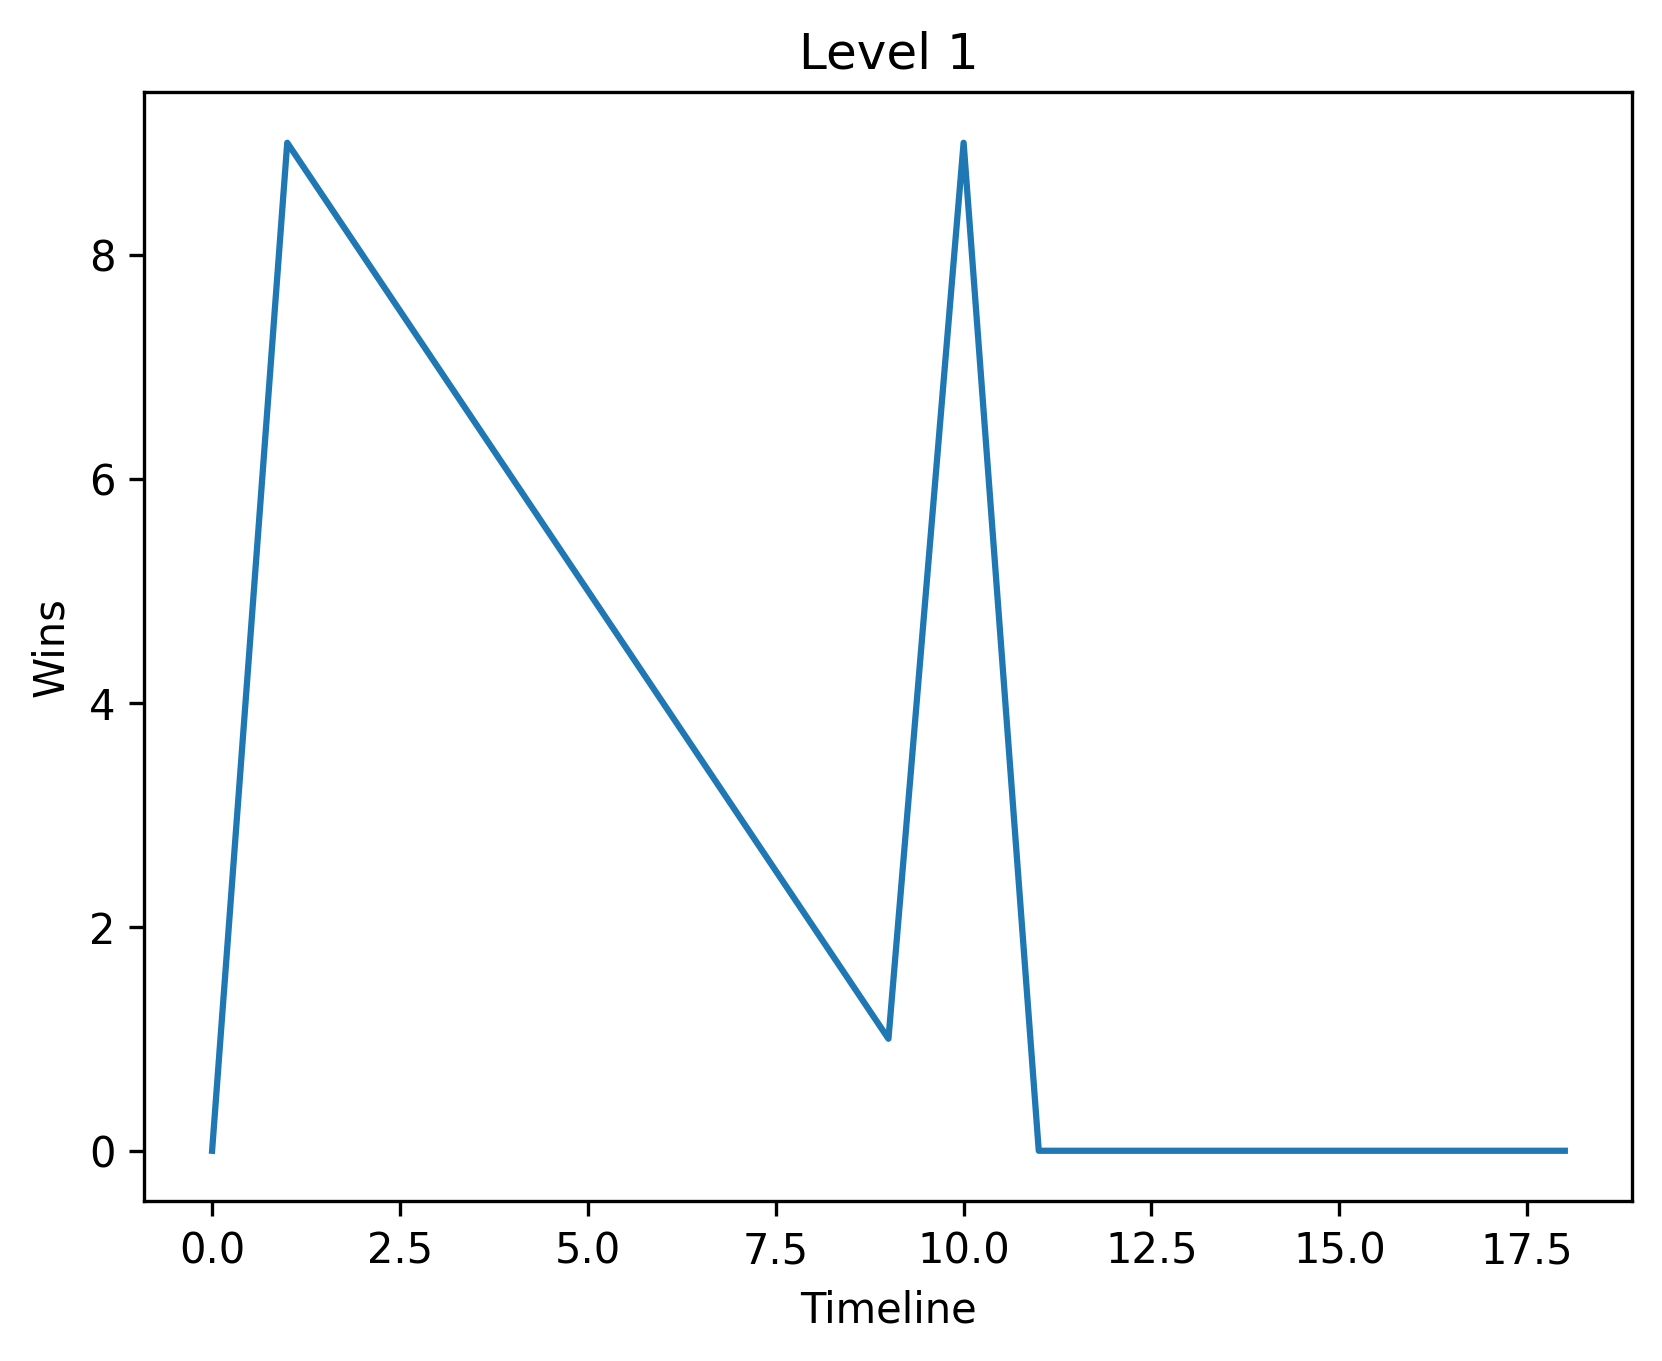
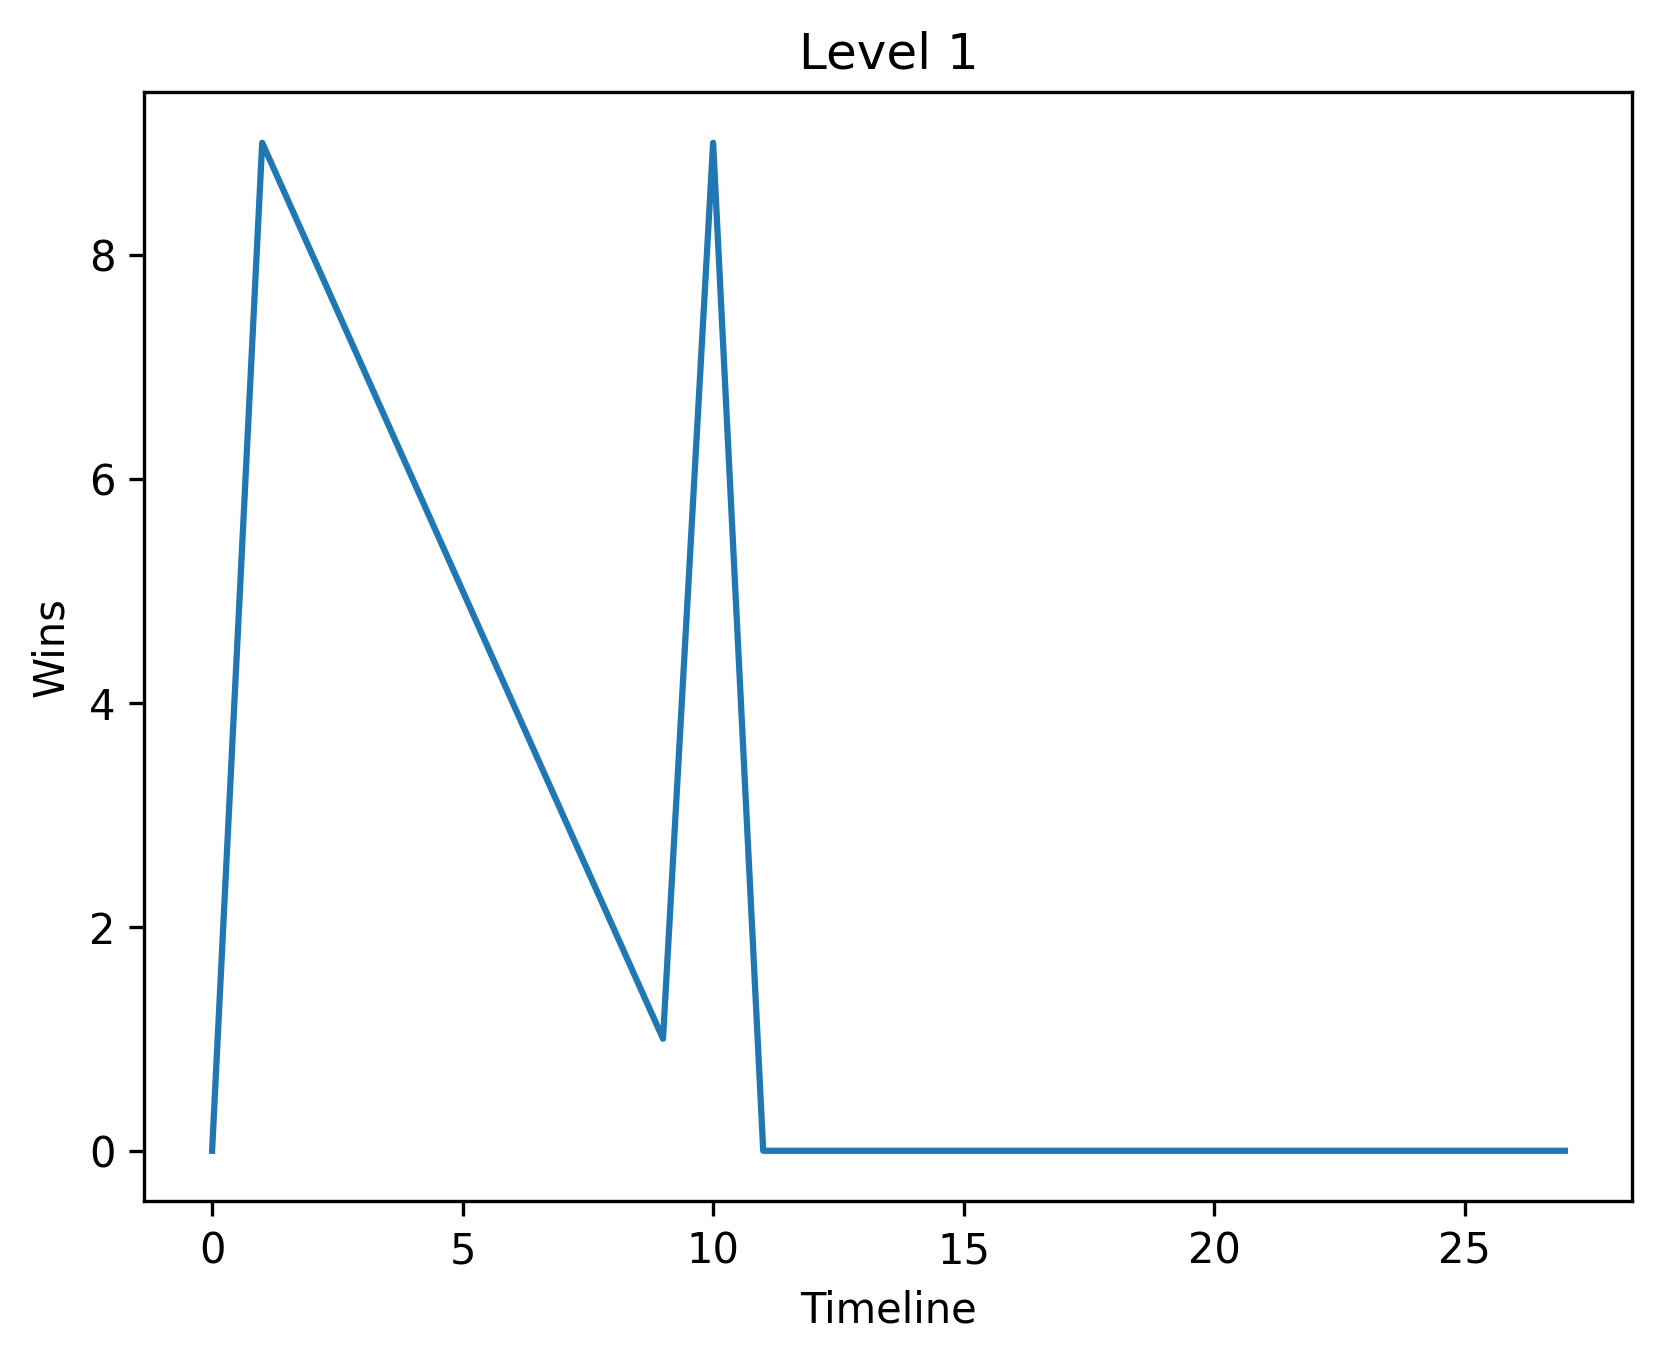
RASH FINAL FINAL

diff --git a/code/BTP-BLS Iteration 2.py b/code/BTP-BLS Iteration 2.py
@@ -93,6 +93,9 @@ def radioboxSelect():
     return listModeOptions[option]
 
 ### GUH
+def statisticsButton():
+    statisticLevelInitialization(levelselect())
+
 def statisticLevelInitialization(LevelName):
     """statistic Initialization"""
     # Tasks:
@@ -108,6 +111,14 @@ def statisticLevelInitialization(LevelName):
         logoPath = os.path.join(mainDirectory, "..", "statistics", fileName)
         filenameConstant = os.path.normpath(logoPath)
         return filenameConstant
+    
+    def streakWinsConstant():
+        streakWins = 0
+        for i in range(len(listWins)):
+            if listWins[i] > 0:
+                streakWins += 1
+            else:
+                streakWins = 0
     
     # inputs:
     levelChosen = levelselect()
@@ -148,8 +159,46 @@ def statisticLevelInitialization(LevelName):
         print(levelChosen)
         #gameActivityImageLabel.destroy()
         placeholderStatistic = tk.PhotoImage(f"{levelChosen}_Statistic.png")
-        gameActivityImageLabel.configure(text=pl.show())
+        #gameActivityImageLabel.configure(text=pl.show())
         os.chdir(currentDir)
+
+        statisticFrame = tk.Frame(master=statisticwindow)
+        statisticFrame.pack()
+
+        statisticFrame.rowconfigure(0, weight=1)
+        statisticFrame.rowconfigure(1, weight=1)
+        statisticFrame.rowconfigure(2, weight=1)
+        statisticFrame.rowconfigure(3, weight=1)
+        statisticFrame.rowconfigure(4, weight=1)
+
+        statisticFrame.columnconfigure(0, weight=1)
+        statisticFrame.columnconfigure(1, weight=1)
+
+        statisticText1 = tk.Label(master=statisticFrame, text="Statistics", font=("Arial", 20, "bold"))
+        statisticText1.grid(column=0, row=0, sticky=tk.W)
+
+        statisticText2 = tk.Label(master=statisticFrame, text="Total Wins:")
+        statisticText2.grid(column=0, row=1, sticky=tk.W)
+
+        statisticText3 = tk.Label(master=statisticFrame, text="Mean Wins:")
+        statisticText3.grid(column=0, row=2, sticky=tk.W)
+
+        statisticText4 = tk.Label(master=statisticFrame, text="Total Losses:")
+        statisticText4.grid(column=0, row=3, sticky=tk.W)
+
+        statisticText5 = tk.Label(master=statisticFrame, text=sumWinData)
+        statisticText5.grid(column=1, row=1, sticky=tk.W)
+
+        statisticText6 = tk.Label(master=statisticFrame, text=meanWinData)
+        statisticText6.grid(column=1, row=2, sticky=tk.W)
+
+        statisticText7 = tk.Label(master=statisticFrame, text=sumLoseData)
+        statisticText7.grid(column=1, row=3, sticky=tk.W)
+
+        statisticText8 = tk.Label(master=statisticFrame, text=pl.show())
+        statisticText8.grid(column=1, row=4, sticky=tk.W)
+
+
     else:
         print("[statistics] - less than 10 elements found between the provided elements.")
         pass
@@ -901,7 +950,8 @@ def BTPBLS():
     gameactivityOptionSelectionPlay.grid(column=2, row=2)
     gameactivityOptionSelectionPlayLevel = tk.Label(master=gameactivityModeSelectionFrame, text="Level: ")
     gameactivityOptionSelectionPlayLevel.grid(column=2, row=3, sticky="W")
-
+    gameactivityOptionSelectionStatistic = tk.Button(master=gameactivityModeSelectionFrame, text="Statistic", width=20, command=statisticsButton)
+    gameactivityOptionSelectionStatistic.grid(column=2, row=4)
     ## todo: fix options
 
     # mainNotebook Compiling